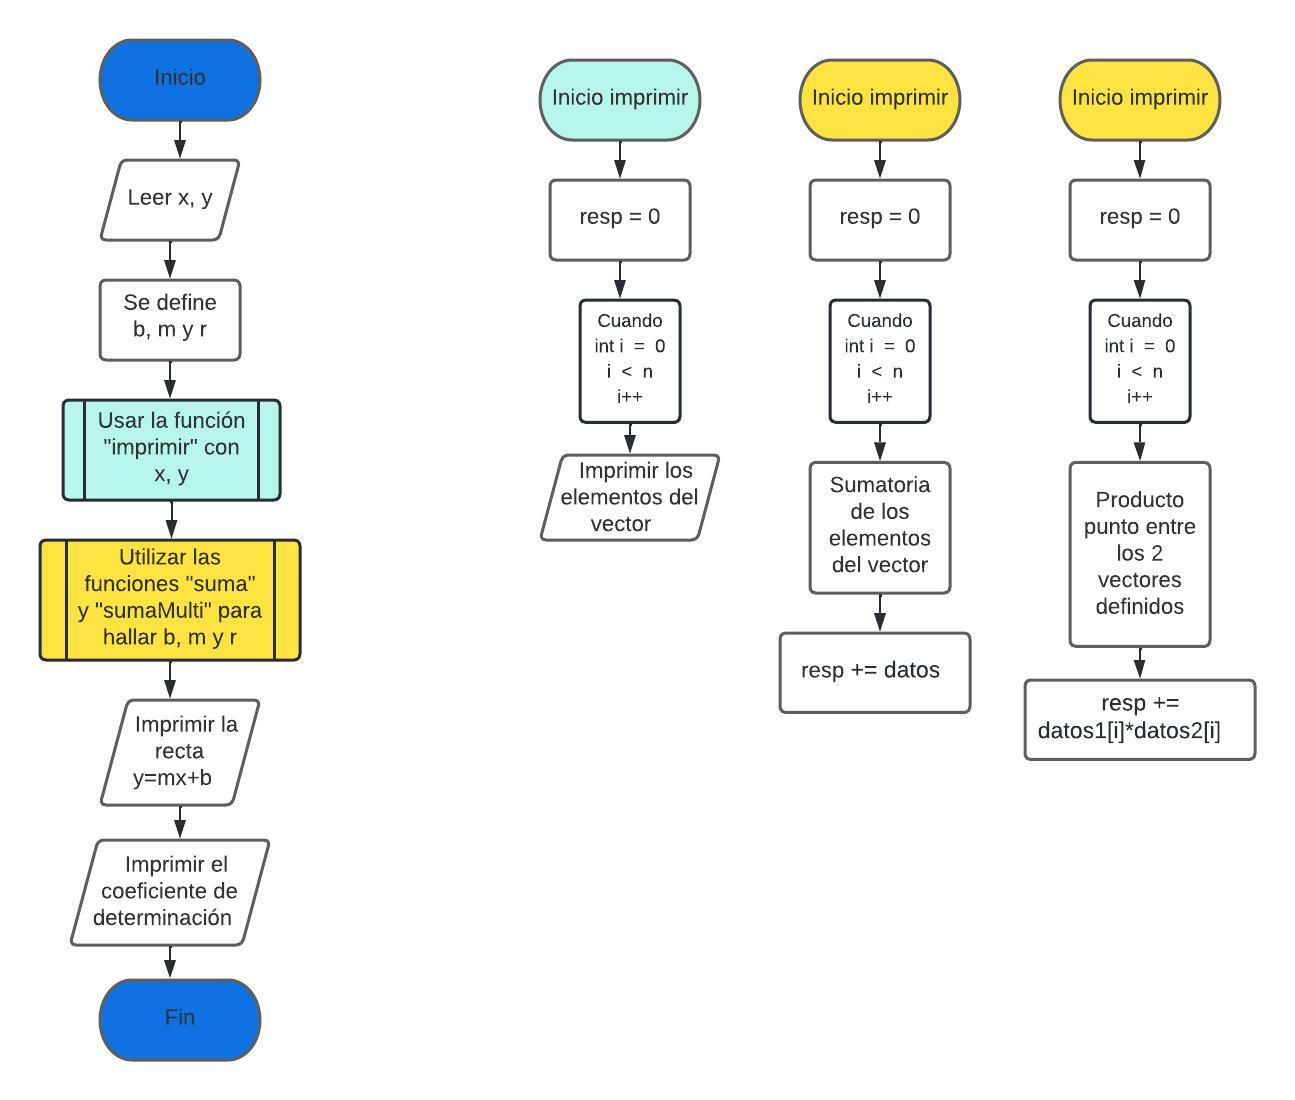
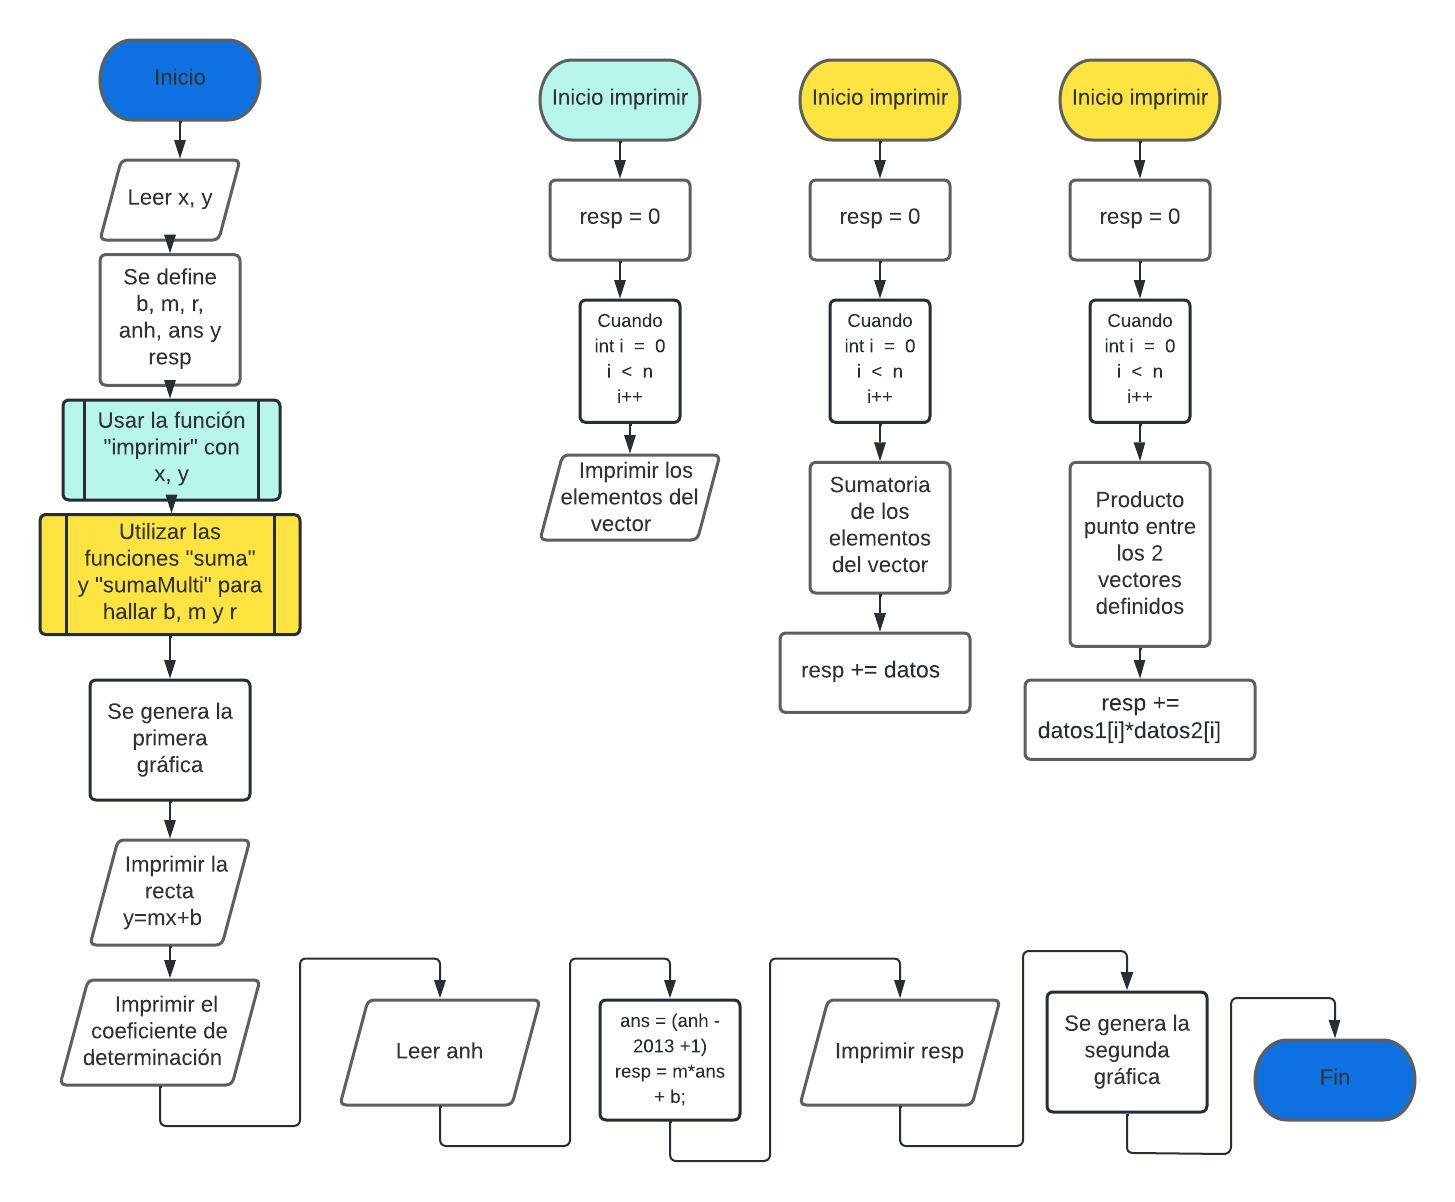
04MAY

diff --git a/Segundo_examen_parcial/MinCuadrados.c b/Segundo_examen_parcial/MinCuadrados.c
@@ -44,7 +44,7 @@ void main(){
     printf("Ingrese el año al que quiere saber la aproximación (el año debe de ser después de 2013):\n");
     scanf("%f",&anh); 
     printf("La aproximación para el año ingresado es:\n");
-    ans = (anh - 2013);
+    ans = (anh - 2013 +1);
     resp = m*ans + b;
     //Se imprime el valor de la producción de cardamomo en el año ingreasado por el usuario
     printf("%f \n", resp);

diff --git a/Segundo_examen_parcial/Readme.md b/Segundo_examen_parcial/Readme.md
@@ -15,6 +15,9 @@ Dentro de esta carpeta se documentará y mostrará el código de los problemas d
 - b   = Intercepto
 - m   = Pendiente
 - r   = Coeficiente de correlación
+- anh = Valor asignado a x en la función y = mx +b para dar la aproximación de la producción de cardamomo 
+- ans = Valor de la producción de cardamomo en el año ingreasado por el usuario
+- resp = Respuesta de m*ans + b
 
 **Metodología:**
 - Se divide el problema en 3 funciones para luego llamarlas durante el programa
@@ -22,9 +25,13 @@ Dentro de esta carpeta se documentará y mostrará el código de los problemas d
 - Se crea una función que realiza la suma de los elementos de los vectores ingresados llamada "suma"
 - Se hace una función que realiza el "producto punto" de los dos vectores ingresados. Esta se llama "sumaMulti"
 - Se llama la función "imprimir" para presentar los valores de x y y.
+- Se genera la primera gráfica usando los valores de la tabla.
 - Se calcula el valor de m según la fórmula matemática. Para esto, se llaman las funciones "sumaMulti" y "suma"
 - Se halla el valor de b usando las funciones "suma" y "sumaMulti"
 - Se calcula el valor de r. De nuevo, se usan las funciones "suma" y "sumaMulti".
+- Se pide al usuario ingresar el año del que desea saber la producción aproximada de cardamomo.
+- Se guarda el dato ingresado por el usuario para luego meterlo en una nueva operación y así obtener la producción aproximada de cardamomo.
+- Se genera la segunda gráfica tomando en cuenta la recta generada por el programa.
 
 **Respuestas del problema**
 - Recta que que mejor aproxima el crecimiento en las ganancias: y = 28.227352x + 602.714478
